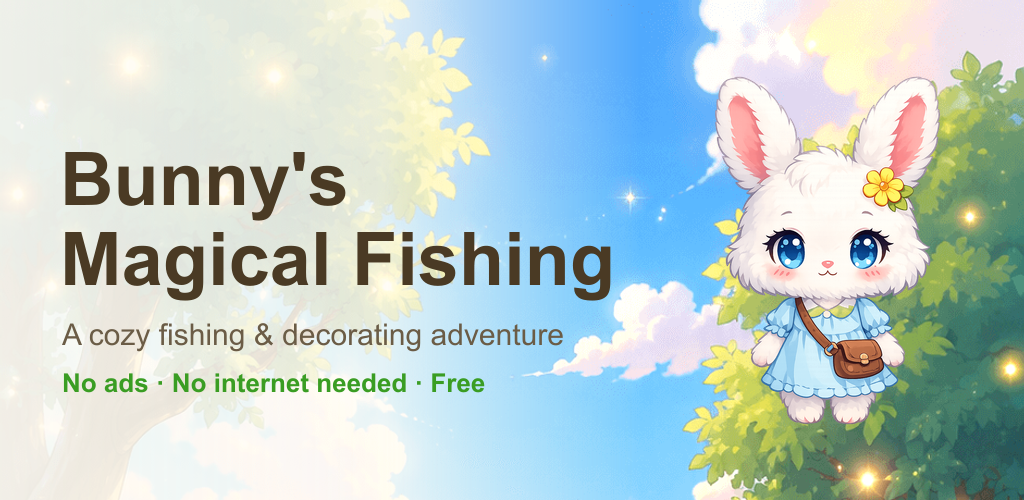
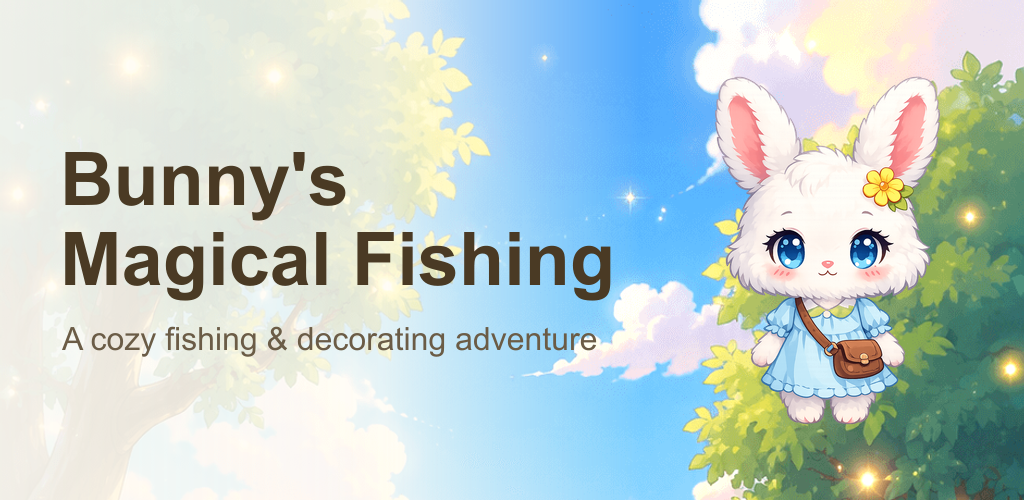
Add Play Store screenshots + update feature graphic
- scripts/store-screenshots.js composes 5 screenshots (1080x1920, 9:16)
  from the game art; one set covers phone + 7in + 10in tablet
- overlays use drawn SVG shapes (resvg renders emoji as flat glyphs)
- feature graphic: removed the extra promo line per request

Changed region(s): [[0.0625, 0.63, 0.5938, 0.72], [0.0625, 0.75, 0.4688, 0.81]]

diff --git a/scripts/store-screenshots.js b/scripts/store-screenshots.js
@@ -1,0 +1,149 @@
+// Composes 5 Play Store screenshots (1080x1920, 9:16) from the game art.
+// One set satisfies phone + 7in + 10in tablet (min side 1080).
+// Note: resvg renders emoji as flat glyphs, so overlays use drawn SVG shapes.
+import sharp from "sharp";
+import { mkdirSync } from "fs";
+
+const W = 1080, H = 1920;
+const OUT = "store/screenshots";
+mkdirSync(OUT, { recursive: true });
+
+const P = "public/images/";
+const load = (f, resize) => resize ? sharp(P + f).resize(resize).png().toBuffer() : sharp(P + f).png().toBuffer();
+
+async function centered(buf, cx, cy) {
+    const m = await sharp(buf).metadata();
+    return { input: buf, left: Math.round(cx - m.width / 2), top: Math.round(cy - m.height / 2) };
+}
+const cover = (f) => sharp(P + f).resize(W, H, { fit: "cover", position: "north" }).toBuffer();
+const svg = (inner) => Buffer.from(`<svg width="${W}" height="${H}" xmlns="http://www.w3.org/2000/svg">${inner}</svg>`);
+
+function caption(text) {
+    return `<rect x="60" y="60" width="960" height="150" rx="44" fill="#FFFDF7" fill-opacity="0.96" stroke="#8B6B3F" stroke-width="6"/>
+        <text x="540" y="158" font-family="Arial, sans-serif" font-size="50" font-weight="bold" fill="#4A3A24" text-anchor="middle">${text}</text>`;
+}
+function heart(cx, cy, s = 2) {
+    return `<path transform="translate(${cx - 12 * s},${cy - 12 * s}) scale(${s})" d="M12 21 C12 21 3 13.5 3 8 C3 5 5.5 3 8 3 C10 3 12 5 12 6.5 C12 5 14 3 16 3 C18.5 3 21 5 21 8 C21 13.5 12 21 12 21 Z" fill="#FF5A7A" stroke="#C9314F" stroke-width="1"/>`;
+}
+function checkbox(x, y, checked) {
+    let s = `<rect x="${x}" y="${y}" width="30" height="30" rx="6" fill="#ffffff" stroke="#8B6B3F" stroke-width="3.5"/>`;
+    if (checked) s += `<path d="M${x + 6} ${y + 16} l7 7 l12 -16" fill="none" stroke="#3A9D23" stroke-width="5" stroke-linecap="round" stroke-linejoin="round"/>`;
+    return s;
+}
+
+async function save(name, base, layers) {
+    await sharp(base).composite(layers).png().toFile(`${OUT}/${name}.png`);
+    console.log("wrote", name);
+}
+
+// 1 — Title / Home
+async function home() {
+    const base = await cover("backgrounds/home_background.png");
+    const house = await load("house/bunny_house.png", { width: 820 });
+    const bunny = await load("bunny/bunny_idle.png", { height: 640 });
+    const overlay = svg(`
+        <text x="540" y="230" font-family="Arial, sans-serif" font-size="76" font-weight="bold" fill="#FFFFFF" stroke="#4A4A4A" stroke-width="10" paint-order="stroke" text-anchor="middle">Bunny's</text>
+        <text x="540" y="320" font-family="Arial, sans-serif" font-size="76" font-weight="bold" fill="#FFFFFF" stroke="#4A4A4A" stroke-width="10" paint-order="stroke" text-anchor="middle">Magical Fishing</text>
+        <rect x="330" y="1690" width="420" height="120" rx="30" fill="#7ED957" stroke="#4A7A2A" stroke-width="6"/>
+        <text x="540" y="1770" font-family="Arial, sans-serif" font-size="56" font-weight="bold" fill="#FFFFFF" text-anchor="middle">PLAY</text>`);
+    await save("1-home", base, [
+        await centered(house, 540, 1120),
+        await centered(bunny, 540, 1470),
+        { input: overlay, left: 0, top: 0 }
+    ]);
+}
+
+// 2 — Fishing (hero gameplay shot with HUD)
+async function fishing() {
+    const base = await sharp(svg(`
+        <defs><linearGradient id="sky" x1="0" y1="0" x2="0" y2="1">
+            <stop offset="0%" stop-color="#D6F3FF"/><stop offset="60%" stop-color="#BEEBFF"/></linearGradient></defs>
+        <rect width="${W}" height="${H}" fill="url(#sky)"/>`)).png().toBuffer();
+    const water = await sharp(P + "fishing/water.png").resize(W, 900, { fit: "fill" }).png().toBuffer();
+    const clouds1 = await load("fishing/clouds.png", { width: 520 });
+    const clouds2 = await load("fishing/clouds.png", { width: 360 });
+    const boat = await load("fishing/boat.png", { width: 660 });
+    const bunny = await load("bunny/bunny_idle.png", { height: 360 });
+    const rod = await sharp(P + "fishing/fishing_rod.png").resize({ height: 380 }).png().toBuffer();
+    const bobber = await load("ui/magical_bobber.png", { width: 90 });
+
+    const hud = svg(`
+        ${heart(105, 120)} ${heart(165, 120)} ${heart(225, 120)}
+        <rect x="330" y="70" width="420" height="220" rx="26" fill="#FFFDF5" stroke="#8B6B3F" stroke-width="5"/>
+        <text x="540" y="120" font-family="Arial" font-size="32" font-weight="bold" fill="#5A3E1B" text-anchor="middle">Shopping List</text>
+        ${checkbox(360, 145, false)}<text x="405" y="169" font-family="Arial" font-size="30" fill="#333">Apple</text>
+        ${checkbox(360, 190, true)}<text x="405" y="214" font-family="Arial" font-size="30" fill="#3A9D23">Carrot</text>
+        ${checkbox(360, 235, false)}<text x="405" y="259" font-family="Arial" font-size="30" fill="#333">Juice</text>
+        <circle cx="900" cy="128" r="22" fill="none" stroke="#35648A" stroke-width="5"/>
+        <line x1="900" y1="128" x2="900" y2="114" stroke="#35648A" stroke-width="4" stroke-linecap="round"/>
+        <line x1="900" y1="128" x2="910" y2="132" stroke="#35648A" stroke-width="4" stroke-linecap="round"/>
+        <text x="935" y="145" font-family="Arial" font-size="46" font-weight="bold" fill="#35648A">42</text>
+        <line x1="700" y1="1120" x2="620" y2="1500" stroke="#E8E2D6" stroke-width="3"/>
+        <rect x="150" y="1740" width="780" height="130" rx="40" fill="#FFFDF7" fill-opacity="0.96" stroke="#8B6B3F" stroke-width="5"/>
+        <text x="540" y="1822" font-family="Arial" font-size="46" font-weight="bold" fill="#4A3A24" text-anchor="middle">Cast, wait for the bite, then reel!</text>`);
+
+    await save("2-fishing", base, [
+        { input: water, left: 0, top: 1020 },
+        await centered(clouds1, 300, 620),
+        await centered(clouds2, 820, 720),
+        await centered(rod, 720, 1230),
+        await centered(boat, 540, 1420),
+        await centered(bunny, 500, 1230),
+        await centered(bobber, 620, 1520),
+        { input: hud, left: 0, top: 0 }
+    ]);
+}
+
+// 3 — Shopping list
+async function shopping() {
+    const base = await cover("backgrounds/home_background.png");
+    const parch = await load("ui/shopping_parchment.png", { width: 860 });
+    const bunny = await load("bunny/bunny_idle.png", { height: 520 });
+    const dot = (y, c) => `<circle cx="415" cy="${y - 14}" r="16" fill="${c}"/>`;
+    const list = svg(`
+        ${caption("Catch today's shopping list!")}
+        <text x="560" y="720" font-family="Arial" font-size="48" font-weight="bold" fill="#5A3E1B" text-anchor="middle">Shopping List</text>
+        ${dot(848, "#E8506E")}<text x="450" y="862" font-family="Arial" font-size="48" fill="#333">Apple</text>
+        ${dot(948, "#F0912B")}<text x="450" y="962" font-family="Arial" font-size="48" fill="#333">Carrot</text>
+        ${dot(1048, "#5FBF4F")}<text x="450" y="1062" font-family="Arial" font-size="48" fill="#333">Juice</text>`);
+    await save("3-shopping", base, [
+        await centered(parch, 560, 830),
+        await centered(bunny, 300, 1520),
+        { input: list, left: 0, top: 0 }
+    ]);
+}
+
+// 4 — Decorate home (interior)
+async function decorate() {
+    const base = await cover("backgrounds/home_background.png");
+    const house = await load("house/house_inside.png", { width: 1040 });
+    const bunny = await load("bunny/bunny_idle.png", { height: 360 });
+    const cap = svg(caption("Decorate your cozy bunny home!"));
+    await save("4-decorate", base, [
+        await centered(house, 540, 980),
+        await centered(bunny, 540, 1230),
+        { input: cap, left: 0, top: 0 }
+    ]);
+}
+
+// 5 — Cloud market
+async function market() {
+    const base = await cover("backgrounds/cloud_market_background.png");
+    const stall = await load("market/cloud_stall.png", { width: 860 });
+    const fairy = await load("fairy/fairy_idle.png", { height: 340 });
+    const bunny = await load("bunny/bunny_idle.png", { height: 460 });
+    const cap = svg(caption("Sell your catch at the Cloud Market!"));
+    await save("5-market", base, [
+        await centered(stall, 540, 1080),
+        await centered(fairy, 280, 760),
+        await centered(bunny, 770, 1240),
+        { input: cap, left: 0, top: 0 }
+    ]);
+}
+
+await home();
+await fishing();
+await shopping();
+await decorate();
+await market();
+console.log("done");

diff --git a/scripts/store-assets.js b/scripts/store-assets.js
@@ -43,8 +43,7 @@ async function featureGraphic() {
             <rect x="0" y="0" width="640" height="${H}" fill="url(#fade)"/>
             <text x="60" y="205" font-family="Arial, sans-serif" font-size="74" font-weight="bold" fill="#4A3A24">Bunny's</text>
             <text x="60" y="285" font-family="Arial, sans-serif" font-size="74" font-weight="bold" fill="#4A3A24">Magical Fishing</text>
-            <text x="62" y="345" font-family="Arial, sans-serif" font-size="30" fill="#6b5c46">A cozy fishing &amp; decorating adventure</text>
-            <text x="62" y="392" font-family="Arial, sans-serif" font-size="26" font-weight="bold" fill="#3A9D23">No ads &#183; No internet needed &#183; Free</text>
+            <text x="62" y="350" font-family="Arial, sans-serif" font-size="32" fill="#6b5c46">A cozy fishing &amp; decorating adventure</text>
         </svg>`
     );
 
